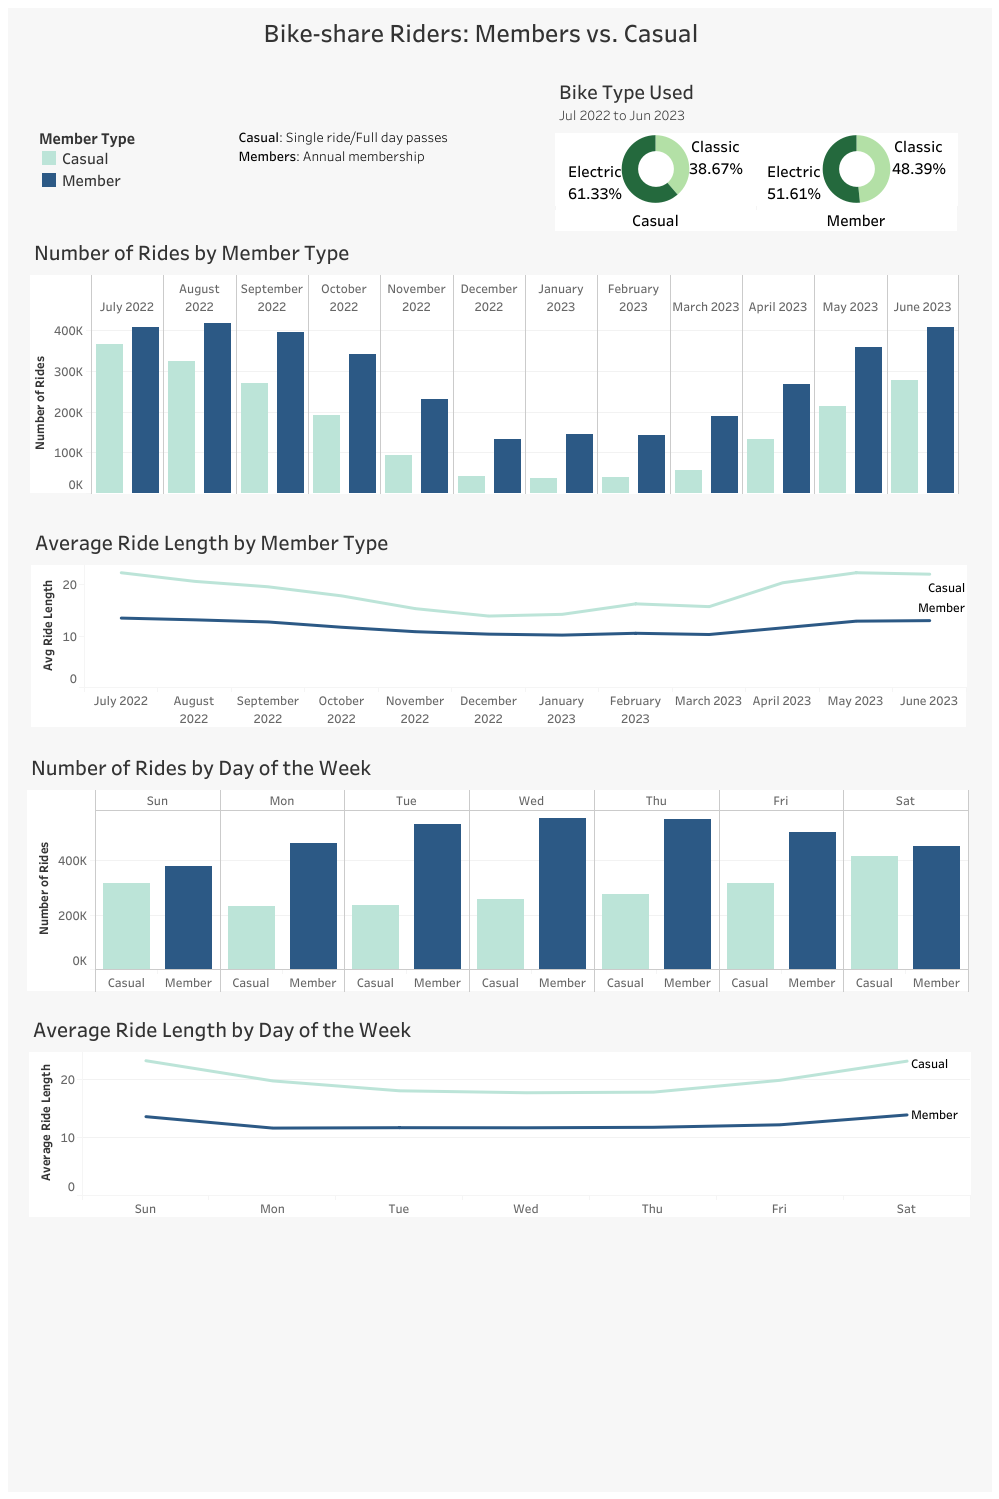
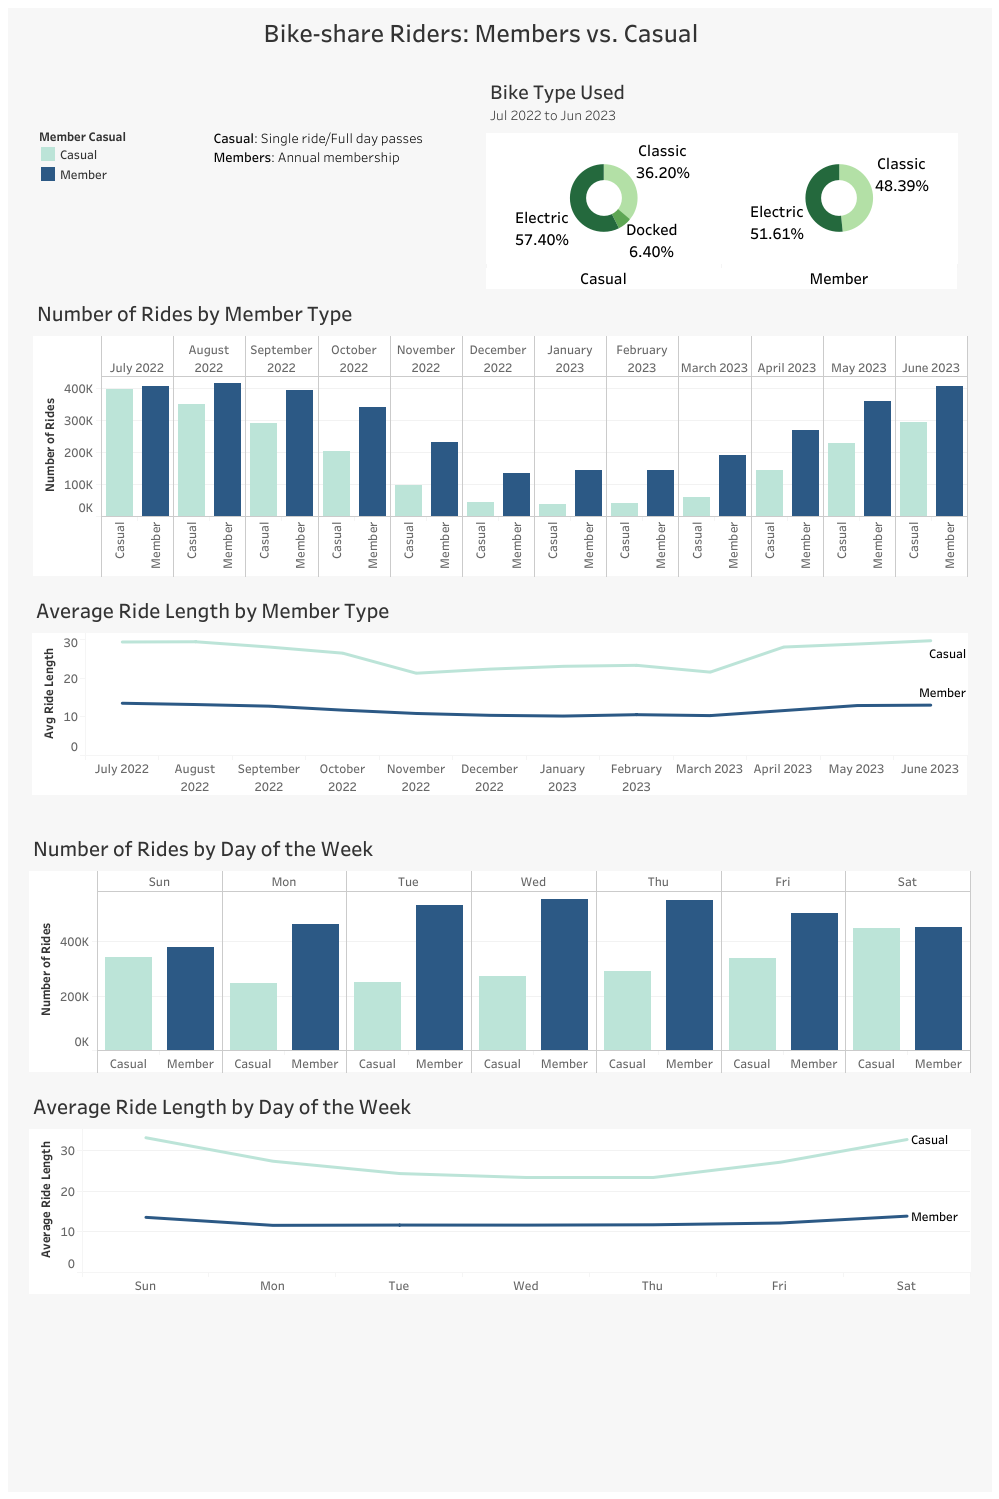
added docked bike data

diff --git a/portfolio/google-capstone/index.html b/portfolio/google-capstone/index.html
@@ -106,16 +106,13 @@
 										First, I checked columns that have qualitative data to see what are the 
 										different types of bikes (rideable_type) that are offered. Using a "SELECT DISTINCT" query
 										for bike type, there were 3 labels that showed: electric, classic, and docked. 
-										Docked bikes are bikes left in the docking station, so it's not trip data or even a bike type. I
-										determined this data was not helpful to answer the business task, therefor it's excluded
-										from the analysis.
-										For the member data, there were 2 types: member and casual. That is what was expected.
+										For the member data, there were 2 types: member and casual, which is what was expected.
 									</p>
 									<p>
 										Next, I performed a calculation with the start and end dates. For each trip, I
-										calculated the length of time (end date and time - start date and time). I used the start date
-										to extract the month and year, and the day of the week of the trip. I also output the minimum and maximum
-										length of time.
+										calculated the length of time (end date and time - start date and time). I also used the start date
+										to extract the month and year, and the day of the week of the trip. In addition, I output the 
+										minimum and maximum length of time.
 										Here is a sample of the query I used.
 										<div>
 											SELECT<br>
@@ -168,8 +165,9 @@
 											</li>
 											<li>The colder months see a drop in trips, which is expected.</li>
 											<li>Casual riders have a slight preference for electric over classic bikes, and 
-												members are split nearly even between the 2 bike types.
+												members are split nearly even between electric and classic bike types.
 											</li>
+											<li>Only casual riders use the docked bike type.</li>
 										</ul>
 									</p>
 									<p>
@@ -188,10 +186,9 @@
 									<h3>Recommendations</h3>
 									<p>
 										<ol>
-											<li>Target marketing campaign in spring, summer and fall months (Apr to Oct), when the amount of trips are high.</li>
+											<li>Target the marketing campaign in spring, summer and fall months (Apr to Oct), when the amount of trips are high.</li>
 											<li>Create monthly memberships for high use months.</li>
 											<li>Create weekend passes or memberships to capitalize on casual riders preference for weekends.</li>
-											<li>Charge more for casual riders due to longer ride lengths. This could push them to convert to a member.</li>
 										</ol>
 									</p>
 									<p>
@@ -202,6 +199,10 @@
 									<p>
 										I would like to survey casual riders to get more insights into the reason they rent bikes so we
 										can create a more targeted and specific marketing campaign.
+									</p>
+									<p>
+										I would also like to look into the reason docked bikes are only used by casual riders. This could be
+										a key point to use in getting users to switch to a membership.
 									</p>
 								</div>
 							</section>
